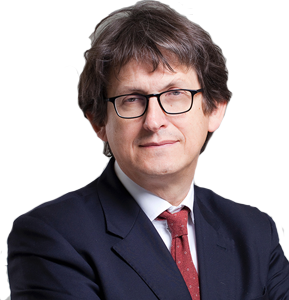
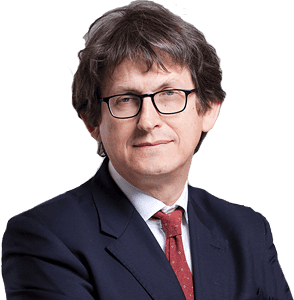
Update design to be thinner, and include David Marr

diff --git a/embeds/alan-sydney/index.html b/embeds/alan-sydney/index.html
@@ -4,10 +4,9 @@
         <h1 class="alan-sydney__title">Liberty and safety</h1>
         <h2 class="alan-sydney__subtitle">where now for freedom?</h2>
     </div>
-    
     <div class="alan-sydney__lower">
         <p class="alan-sydney__trail">
-            Join Alan Rusbridger, Editor-in-chief of the Guardian, as he speaks about the nature of press freedom today.
+            David Marr introduces Alan Rusbridger, Editor-in-chief of the Guardian, as he speaks about the nature of press freedom today.
         </p>
         <p class="alan-sydney__details">
             <span class="alan-sydney__details__detail">Price: $60</span>
@@ -17,7 +16,8 @@
         <div class="button alan-sydney__button">Book tickets <svg class="alan-sydney__button__icon" width="17" height="16" xmlns="http://www.w3.org/2000/svg"><path fill="#fff" d="M16.82 7.63L9.2 0l-.72.7 5.5 6.57H0v1.46h13.97l-5.5 6.56.73.7 7.62-7.63v-.74"></path></svg></div>
     </div>
 </div>
-<img class="alan-sydney__cutout" src="http://interactive.guim.co.uk/embed/2014/nov/alan-sydney/alan-rusbridger.png" />
+<img class="alan-sydney__cutout alan-sydney__cutout--alan" src="http://interactive.guim.co.uk/embed/2014/nov/alan-sydney/alan-rusbridger.png"/>
+<img class="alan-sydney__cutout alan-sydney__cutout--david" src="http://interactive.guim.co.uk/embed/2014/nov/alan-sydney/david-marr.png"/>
 <div class="alan-sydney__live-logo">
     <svg xmlns="http://www.w3.org/2000/svg" width="281.91" height="38.443" viewBox="0 0 281.91 38.443"><path fill="#fff" d="M3.096 12.562H0V9.54l3.096-.433v-3.78L9.79 4.39v4.717h4.392v3.455h-4.39v10.62c0 1.978.54 2.986 2.482 2.986.72 0 1.656-.072 2.16-.144v2.592c-1.116.648-3.383 1.188-5.47 1.188-3.997 0-5.868-1.764-5.868-6.047V12.562zM15.515 27.428l2.196-1.008V4.14l-2.303-1.045V1.332L23.757 0h.54v11.23h.217c1.8-1.656 4.248-2.628 6.983-2.628 3.348 0 5.04 1.656 5.04 5.364V26.42l2.196 1.008v1.836H27.718v-1.836l2.124-1.008V15.478c0-2.088-.864-2.844-2.7-2.844-1.008 0-1.908.216-2.735.54V26.42l2.124 1.008v1.836H15.516v-1.836zM44.926 19.797c.324 3.923 2.196 5.795 5.867 5.795 2.556 0 3.996-.252 5.4-.684v1.944c-.937 1.296-3.96 2.952-7.668 2.952-6.91 0-10.475-3.815-10.475-10.655 0-6.66 3.923-10.512 9.935-10.512 6.047 0 8.963 2.7 8.963 11.16H44.926zm-.072-2.41l5.58-.325c0-5.363-.9-6.227-2.557-6.227-1.835 0-2.95 1.187-3.023 6.55zM78.584 30.632c0 4.788-3.42 7.81-11.303 7.81-6.334 0-10.222-1.978-10.222-4.678 0-2.628 2.556-3.384 4.823-3.852v-.216c-2.16-.468-3.203-2.016-3.203-3.6 0-2.124 2.232-3.815 3.384-4.607v-.217c-2.015-1.116-3.347-3.095-3.347-5.76 0-4.354 3.6-6.946 8.783-6.946 1.62 0 3.384.504 4.644.972h.288l5.147-1.01h.396v3.997h-.467l-3.348-1.188v.143c1.26 1.152 2.088 2.268 2.088 4.248 0 4.392-3.563 6.732-8.747 6.732-1.332 0-2.23-.072-3.312-.396-.504.36-.9.936-.9 1.476 0 .72.648 1.296 1.44 1.296h7.2c4.465 0 6.66 1.834 6.66 5.794zm-5.795 1.872c0-1.044-.757-1.548-2.413-1.548h-7.055c-.54.612-.792 1.296-.792 2.268 0 1.404 1.26 2.7 4.932 2.7 4.175 0 5.327-1.333 5.327-3.42zm-7.668-16.99c0 4.104.936 4.464 2.375 4.464s2.412-.432 2.412-4.464c0-4.03-.937-4.643-2.413-4.643-1.44 0-2.375.54-2.375 4.644zM81.43 12.85l-2.267-1.044V9.97l8.387-1.33h.576v14.217c0 2.304 1.116 2.7 2.808 2.7 1.116 0 1.728-.18 2.412-.468V12.85l-2.23-1.044V9.97L99.5 8.64h.54v17.24l2.268 1.188v1.728l-8.17.9h-.54v-2.664h-.253c-1.295 1.584-3.42 2.772-6.12 2.772-4.066 0-5.794-2.916-5.794-6.407V12.85zM107.53 15.406h-3.132V10.15c1.908-.612 4.175-1.548 7.703-1.548 5.4 0 8.64 1.584 8.64 6.12V26.42l2.124 1.008v1.512c-.648.36-2.16.828-3.78.828-2.087 0-3.96-.684-4.283-2.844h-.18c-.9 1.8-3.274 2.88-5.794 2.88-3.564 0-5.795-2.304-5.795-5.65 0-4.14 2.665-4.968 7.128-5.724l3.852-.648v-2.7c0-2.556-.756-3.852-3.348-3.852-.324 0-1.296.036-1.728.072l-1.404 4.104zm6.48 4.535l-1.55.145c-1.547.144-2.807 1.188-2.807 3.096 0 2.232 1.224 2.952 2.52 2.952.72 0 1.476-.36 1.836-.756V19.94zM131.973 8.53h.576v4.25h.215c1.188-2.665 2.988-4.105 5.184-4.105.36 0 .79.036 1.007.108v5.867c-.396-.108-1.116-.18-1.692-.18-1.8 0-3.312.18-4.463.72v11.194l2.77 1.008v1.872h-11.59v-1.872l2.125-1.008V12.742l-2.23-1.044V9.863l8.096-1.332zM152.924 4.57l-2.232-1.007V1.728L159.08.396h.54V25.88l2.123 1.188v1.728l-7.955.9h-.576v-2.088h-.216c-.828 1.08-2.556 2.196-5.075 2.196-3.67 0-8.062-2.34-8.062-10.08 0-8.134 4.5-11.05 9.827-11.05 1.116 0 2.412.252 3.24.828v-4.93zm0 7.597c-.504-.396-1.08-.72-2.268-.72-2.124 0-3.708 1.908-3.708 7.595 0 4.967 1.26 7.127 3.924 7.127 1.008 0 1.583-.18 2.052-.36V12.166zM171.176 8.53h.54v17.855l2.16 1.008v1.872H162.86v-1.872l2.16-1.008V12.742l-2.267-1.044V9.863l8.423-1.332zm.648-4.715c0 1.944-1.62 3.527-3.563 3.527-1.98 0-3.562-1.583-3.562-3.527 0-1.98 1.583-3.563 3.563-3.563 1.945 0 3.564 1.583 3.564 3.563zM179.133 15.406H176V10.15c1.91-.612 4.176-1.548 7.704-1.548 5.4 0 8.64 1.584 8.64 6.12V26.42l2.123 1.008v1.512c-.648.36-2.16.828-3.78.828-2.087 0-3.96-.684-4.283-2.844h-.18c-.9 1.8-3.275 2.88-5.795 2.88-3.565 0-5.796-2.304-5.796-5.65 0-4.14 2.664-4.968 7.127-5.724l3.853-.648v-2.7c0-2.556-.756-3.852-3.348-3.852-.324 0-1.296.036-1.728.072l-1.404 4.104zm6.48 4.535l-1.55.145c-1.547.144-2.807 1.188-2.807 3.096 0 2.232 1.224 2.952 2.52 2.952.72 0 1.476-.36 1.836-.756V19.94zM195.585 27.428l2.196-1.008V12.742l-2.303-1.044V9.935l8.35-1.332h.54v2.628h.217c1.8-1.655 4.247-2.627 6.983-2.627 3.348 0 5.04 1.656 5.04 5.364V26.42l2.195 1.008v1.836h-11.014v-1.836l2.124-1.008V15.478c0-2.088-.864-2.844-2.7-2.844-1.008 0-1.908.216-2.736.54V26.42l2.124 1.008v1.836h-11.015v-1.836z"/><path fill="#E32127" d="M228.523.36h.54v26.024l2.16 1.008v1.872h-11.015v-1.872l2.16-1.008V4.57L220.1 3.528V1.69l8.423-1.33zM240.295 8.53h.54v17.855l2.16 1.008v1.872H231.98v-1.872l2.16-1.008V12.742l-2.268-1.044V9.863l8.423-1.332zm.648-4.715c0 1.944-1.62 3.527-3.563 3.527-1.98 0-3.563-1.583-3.563-3.527 0-1.98 1.583-3.563 3.563-3.563 1.944 0 3.563 1.583 3.563 3.563zM254.875 23.073h.144l3.49-11.086-2.16-1.008V9.106h7.92v1.872l-2.16 1.007-6.084 17.278h-5.795l-5.938-17.278-2.16-1.008V9.106h11.7v1.872l-2.16 1.007 3.203 11.086zM269.887 19.797c.324 3.923 2.196 5.795 5.867 5.795 2.556 0 3.996-.252 5.4-.684v1.944c-.937 1.296-3.96 2.952-7.668 2.952-6.91 0-10.475-3.815-10.475-10.655 0-6.66 3.924-10.512 9.936-10.512 6.047 0 8.963 2.7 8.963 11.16h-12.023zm-.072-2.41l5.58-.325c0-5.363-.9-6.227-2.557-6.227-1.835 0-2.95 1.187-3.023 6.55z"/></svg>
 </div>

diff --git a/embeds/alan-sydney/style.scss b/embeds/alan-sydney/style.scss
@@ -24,8 +24,7 @@ $c-liveRed: #e31f26;
     text-indent: 200%;
     white-space: nowrap;
     background: transparent;
-    position: absolute !important;
-    z-index: 6 !important;
+    position: 99 !important;
     cursor: pointer;
 
     &:hover ~ .alan-sydney__content .alan-sydney__button {
@@ -46,18 +45,14 @@ $c-liveRed: #e31f26;
     padding: 10px 20px;
     height: 280px;
     position: relative;
-    z-index: 3;
+    z-index: 14;
 
     @include mq($until: mobileLandscape) {
-        padding-top: 25px;
+        padding-top: 28px;
     }
 
     @include mq(mobileLandscape) {
         height: 240px;
-        width: 400px;
-    }
-
-    @include mq(mobileLandscape, phablet) {
         width: 50%;
     }
 
@@ -65,25 +60,15 @@ $c-liveRed: #e31f26;
         height: 220px;
         width: 540px;
     }
-
-    @include mq(leftCol) {
-        height: 260px;
-    }
 }
 
 .alan-sydney__title,
 .alan-sydney__subtitle {
     font-size: 28px;
-    line-height: 28px;
-
-    @include mq(phablet) {
-        font-size: 38px;
-        line-height: 36px;
-    }
+    line-height: 0.9;
 
     @include mq(desktop) {
-        font-size: 48px;
-        line-height: 46px;
+        font-size: 44px;
     }
 }
 
@@ -93,11 +78,19 @@ $c-liveRed: #e31f26;
 
 .alan-sydney__subtitle {
     font-weight: 200;
+    
+    @include mq($until: mobileLandscape) {
+        font-size: 20px;
+    }
 }
 
 .alan-sydney__lower {
     position: absolute;
     bottom: 10px;
+
+    @include mq($until: mobileLandscape) {
+        bottom: 48px;
+    }
 }
 
 .alan-sydney__trail,
@@ -157,7 +150,6 @@ $c-liveRed: #e31f26;
 }
 
 // Button
-
 .alan-sydney__button {
     background-color: $c-liveRed !important;
     border: none !important;
@@ -180,37 +172,25 @@ $c-liveRed: #e31f26;
     }
 }
 
-// Cutout
-
+// Cutouts
 .alan-sydney__cutout {
     position: absolute;
-    z-index: 2;
-    left: 0;
     right: 0;
     bottom: 0;
-    
-    @include mq($until: mobileLandscape) {
-        max-height: 200px;
-        left: 52%;
-    }
-    
-    @include mq(mobileLandscape, phablet) {
-        max-height: 220px;
-        left: 58%;
-    }
+    left: 66%;
+    height: 100%;
 
-    @include mq(phablet) {
-        left: 380px;
-        top: 0;
-        height: 100%;
+    @include mq($until: mobileLandscape) {
+        max-height: 160px;
     }
 
     @include mq(tablet) {
-        left: 420px;
+        top: 0;
+        max-height: 100%;
     }
 
     @include mq(desktop) {
-        left: 600px;
+        left: 640px;
     }
 
     @include mq(leftCol) {
@@ -222,11 +202,28 @@ $c-liveRed: #e31f26;
     }
 }
 
-// Logos
+.alan-sydney__cutout--alan {
+    z-index: 11;
+    margin-right: -17.5%;
 
+    @include mq(tablet) {
+        margin-right: -12.5%;
+    }
+}
+
+.alan-sydney__cutout--david {
+    z-index: 10;
+    margin-left: -17.5%;
+
+    @include mq(tablet) {
+        margin-left: -12.5%;
+    }
+}
+
+// Logos
 .alan-sydney__live-logo {
     position: absolute;
-    z-index: 2;
+    z-index: 12;
     right: 20px;
     top: 0;
 
@@ -255,7 +252,7 @@ $c-liveRed: #e31f26;
 
 .alan-sydney__carriage {
     position: absolute;
-    z-index: 2;
+    z-index: 13;
     right: 20px;
     bottom: 10px;
 
